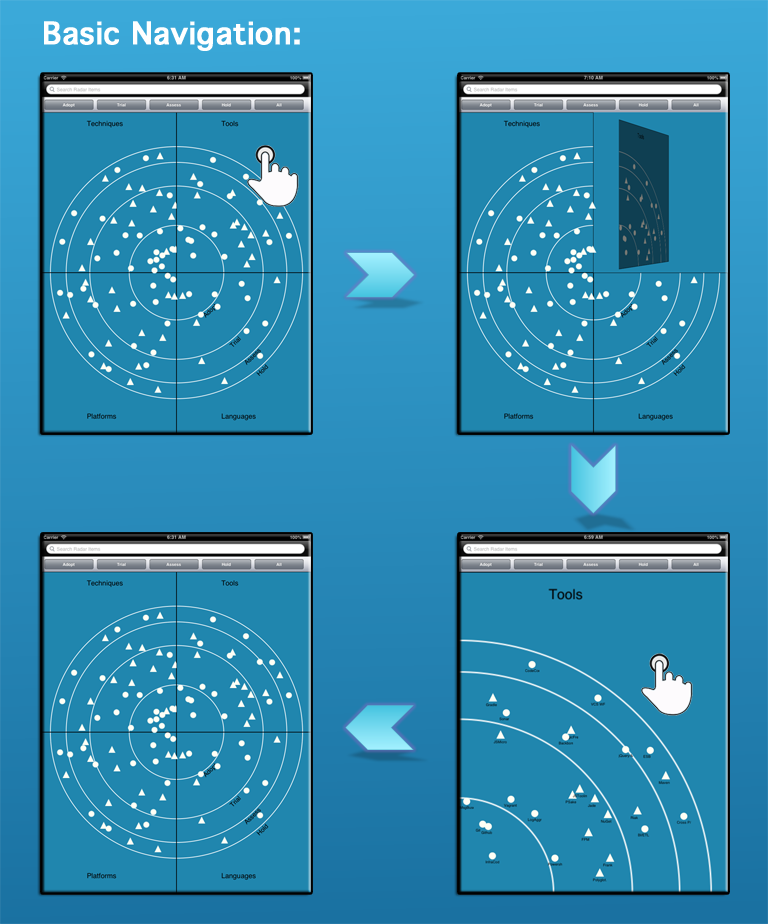
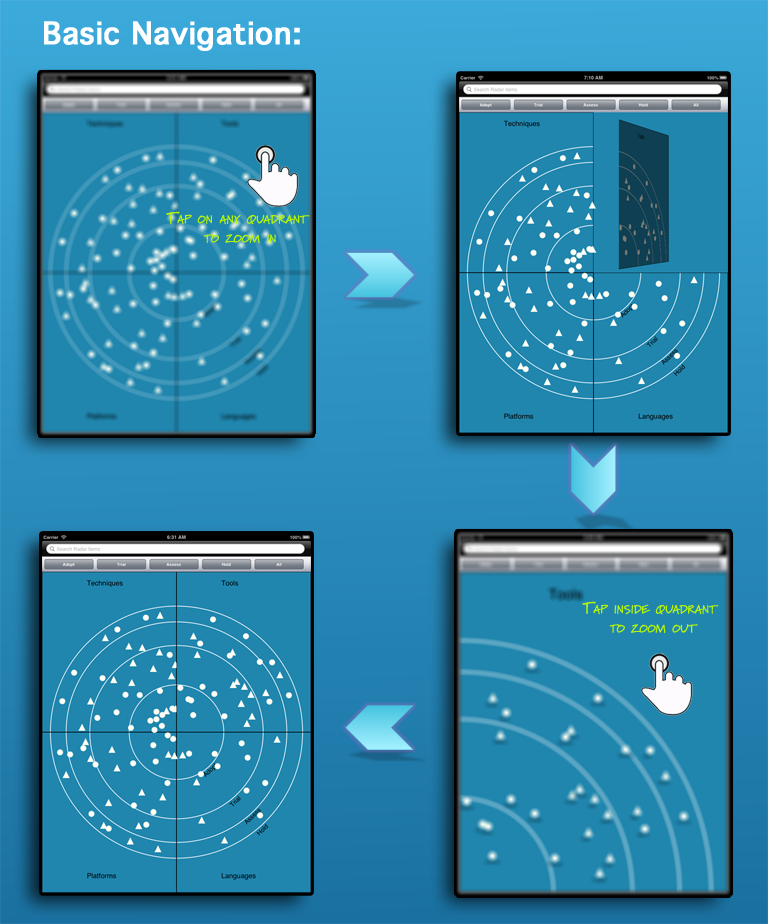
RC | User guides done

diff --git a/TechRadar/UserGuideViewController.m b/TechRadar/UserGuideViewController.m
@@ -12,7 +12,7 @@
     pageControlBeingUsed = NO;
 
     //TODO: Image of the size of a single page on the scrollview
-    NSArray *images = [NSArray arrayWithObjects:@"userguide1", @"about_radar", @"about_radar",nil];
+    NSArray *images = [NSArray arrayWithObjects:@"userguide1", @"userguide2", @"userguide3",nil];
 
     for (int i = 0; i < images.count; i++) {
         CGRect frame;
